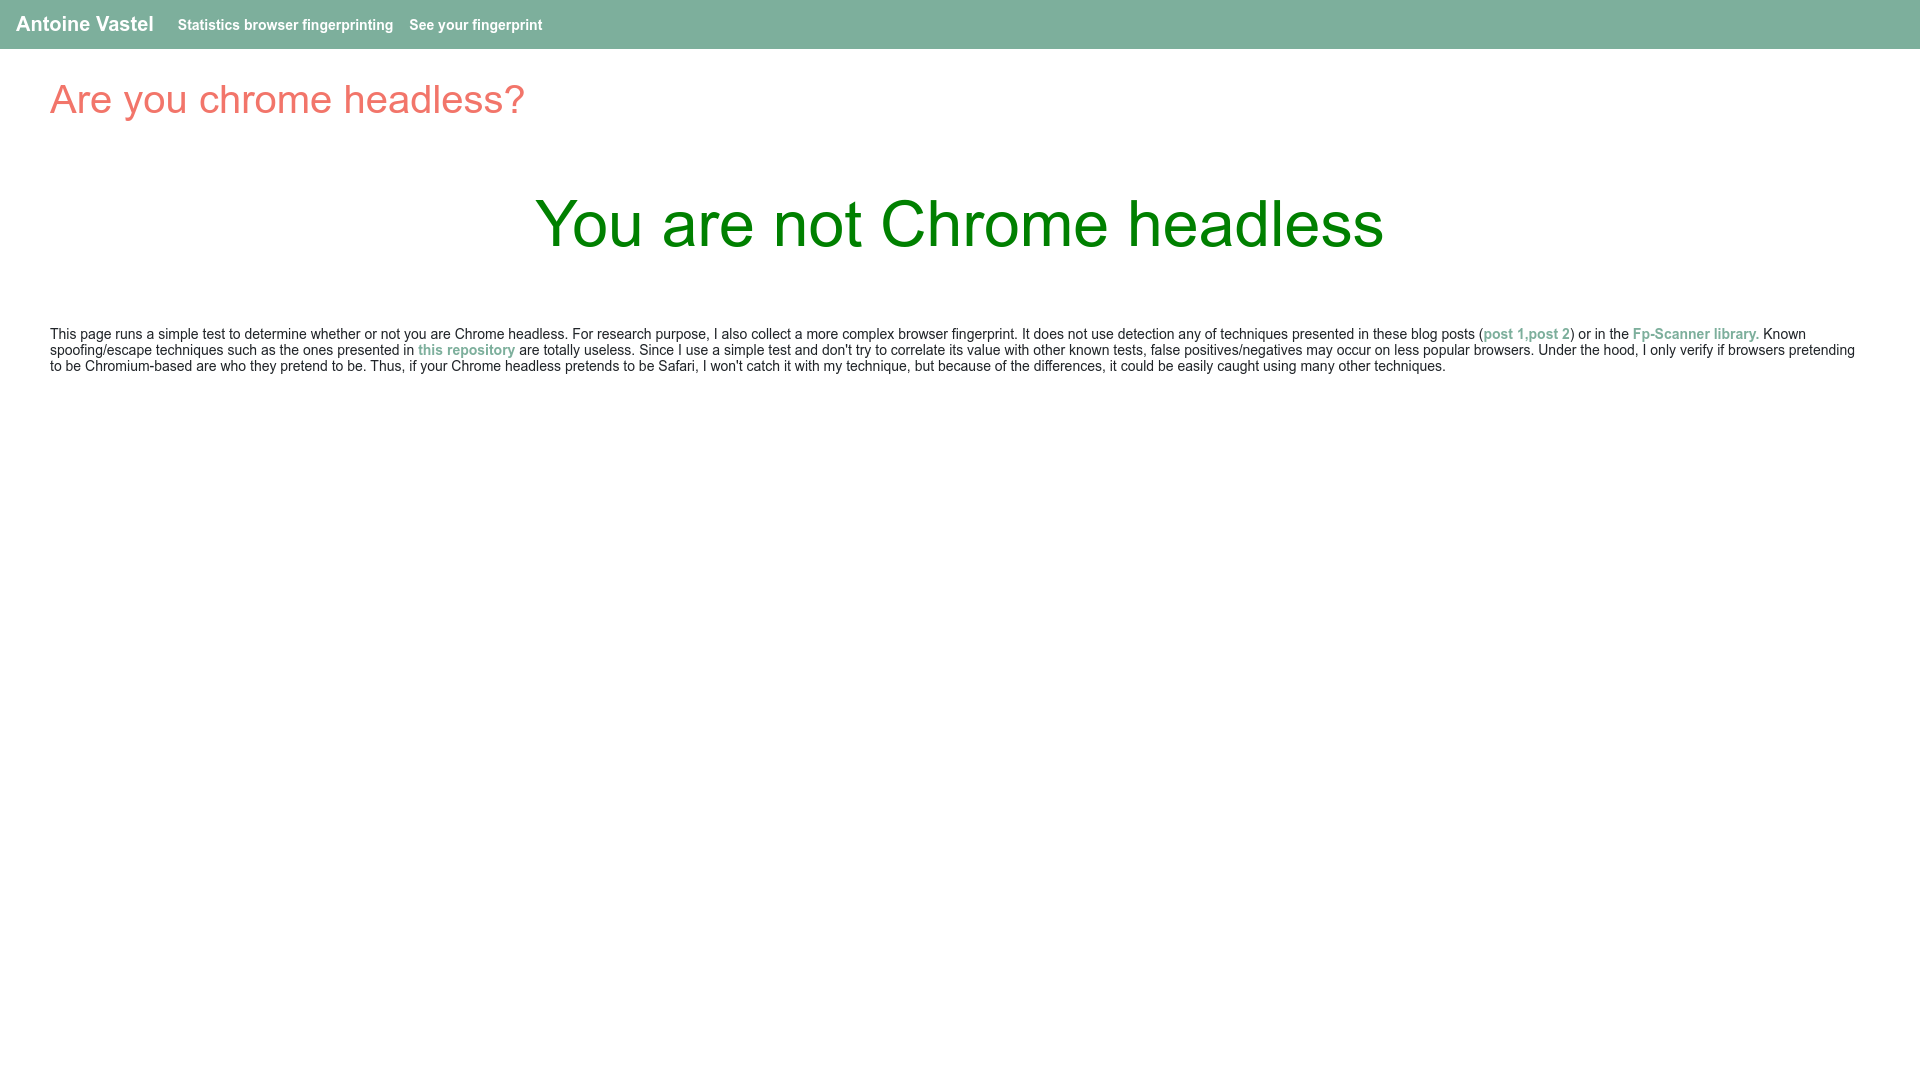
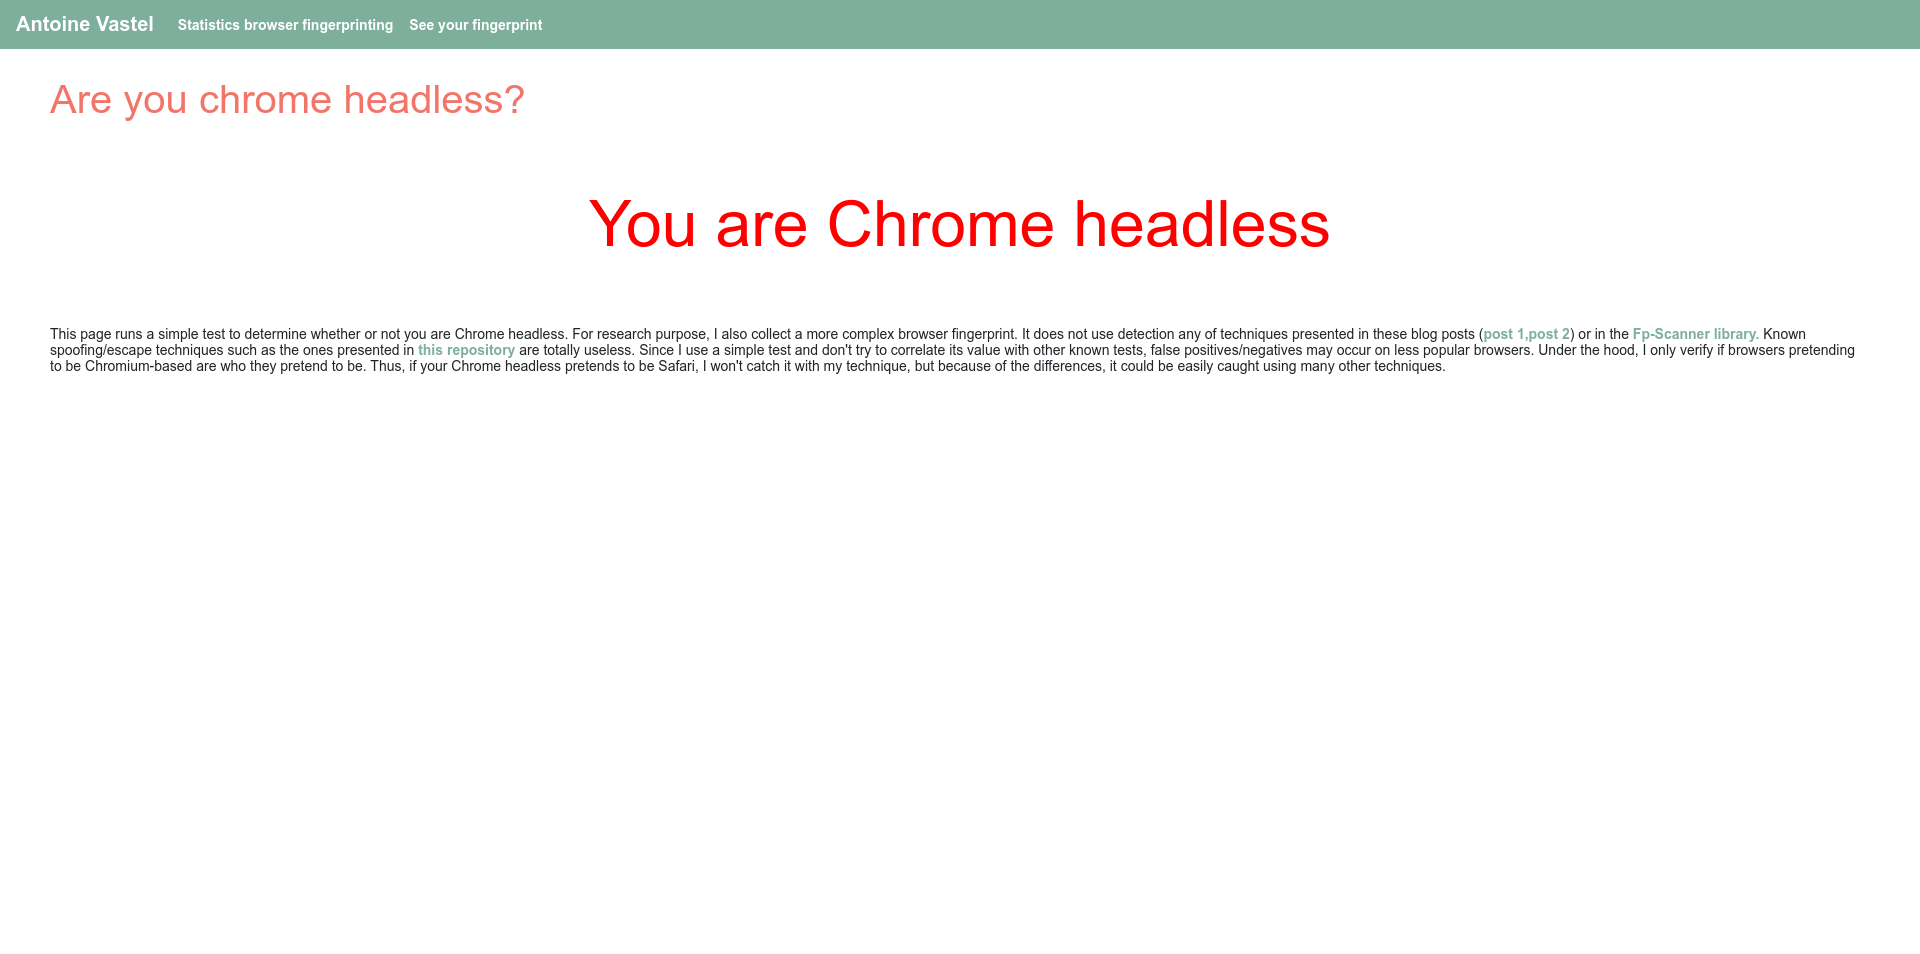
passing fingerprintjs2 hasLied tests

Changed region(s): [[0.0312, 0.304, 0.9688, 0.3952], [0.0, 0.0, 1.0, 0.1216], [0.2812, 0.1824, 0.7188, 0.2736]]

diff --git a/crawler/src/persistant_handler.ts b/crawler/src/persistant_handler.ts
@@ -11,6 +11,7 @@ import { HttpWorker} from './http_worker';
 import { startProxyServer } from './proxy_server';
 import {puppeteer_proxy_error_needles, http_codes_proxy_failure} from './handler';
 import {ResultPolicy, ExecutionEnv} from '@lib/types/common';
+import {LogLevel} from "@lib/misc/logger";
 const got = require('got');
 
 export enum State {
@@ -30,12 +31,12 @@ export class PersistantCrawlHandler {
   counter: number;
   crawler_cache: any;
 
-  constructor(config: HttpWorkerConfig | BrowserWorkerConfig) {
-    this.logger = getLogger(null, 'persistantHandler', config.loglevel);
+  constructor() {
+    this.logger = getLogger(null, 'persistantHandler', LogLevel.verbose);
     this.state = State.initial;
     this.http_worker = null;
     this.browser_worker = null;
-    let config_handler = new CrawlConfig(config);
+    let config_handler = new CrawlConfig({} as BrowserWorkerConfig);
     this.config = config_handler.getDefaultConfig();
     this.proxy_state = {
       proxy: null
@@ -48,19 +49,6 @@ export class PersistantCrawlHandler {
   public async setup() {
     if (this.state === State.initial) {
       this.proxy_server = startProxyServer(this.proxy_state);
-
-      this.config.worker_id = 1;
-      // @ts-ignore
-      this.config.result_policy = ResultPolicy.return;
-      // @ts-ignore
-      this.config.random_user_agent = false;
-      // @ts-ignore
-      this.config.apply_evasion = true;
-      // @ts-ignore
-      this.config.block_webrtc = true;
-      // @ts-ignore
-      this.config.pup_args = [`--proxy-server=http://localhost:8000`];
-
       this.http_worker = new HttpWorker(this.config);
       this.browser_worker = new BrowserWorker(this.config as BrowserWorkerConfig);
       await this.http_worker.setup();
@@ -70,14 +58,28 @@ export class PersistantCrawlHandler {
   }
 
   private updateConfig(body: any) {
+    // set default config options
+    this.config.worker_id = 1;
+    // @ts-ignore
+    this.config.result_policy = ResultPolicy.return;
+    // @ts-ignore
+    this.config.apply_evasion = true;
+    // @ts-ignore
+    this.config.block_webrtc = true;
+    // @ts-ignore
+    this.config.pup_args = [`--proxy-server=http://localhost:8000`];
+
     let update_keys: Array<string> = ['function_code', 'items',
      'loglevel', 'options', 'worker_metadata', 'cookies',
-      'default_accept_language', 'random_accept_language', 'block_webrtc',
+      'default_accept_language', 'random_accept_language',
        'headers', 'user_agent', 'default_navigation_timeout',
         'intercept_types', 'recaptcha_provider', 'timezone', 'language',
-         'test_evasion', 'test_webrtc_leak'];
+         'test_evasion', 'test_webrtc_leak', 'random_user_agent', 'user_agent_options',
+       'apply_evasion', 'block_webrtc'];
+
     for (let key of update_keys) {
-      if (body[key]) {
+      if (body[key] !== undefined) {
+        this.logger.info(`${key}=${body[key]}`);
         // @ts-ignore
         this.config[key] = body[key];
       }
@@ -111,6 +113,7 @@ export class PersistantCrawlHandler {
       google: 'new_google_scraper.js',
       bing: 'new_bing_scraper.js',
       raw: 'new_render_raw.js',
+      fp: 'new_fp.js',
     }
 
     if (!Object.keys(crawlers).includes(crawler_name)) {
@@ -144,6 +147,7 @@ export class PersistantCrawlHandler {
    * are not required during startup of the browser.
    */
   public async run(body: any) {
+    this.logger.info('Using body: ' + JSON.stringify(body, null, 1));
     await this.updateConfig(body);
     await this.setup();
     const result: any = [];
@@ -156,7 +160,7 @@ export class PersistantCrawlHandler {
     // @ts-ignore
     this.browser_worker.config = this.config;
     this.http_worker.config = this.config;
-    this.logger.debug('Using config: ' + JSON.stringify(this.config));
+    this.logger.info('Using config: ' + JSON.stringify(this.config, null, 1));
 
     let items = body.items || [];
     // reload the browser page and close the current one

diff --git a/crawler/src/browser_worker.ts b/crawler/src/browser_worker.ts
@@ -352,6 +352,7 @@ export class BrowserWorker extends BaseWorker {
 
     // pick a random desktop user agent
     if (this.config.random_user_agent) {
+      this.logger.verbose(`random_user_agent=true`);
       this.user_agent_obj = new this.UserAgent({deviceCategory: 'desktop'});
     }
 
@@ -451,7 +452,8 @@ export class BrowserWorker extends BaseWorker {
       // when we set a random user agent, the defaults are not correct anymore.
       // we need to update the platform accordingly
       if (this.user_agent_data) {
-        this.logger.verbose(`Using StealthPlugin with overriding platform: ${this.user_agent_data.platform}`);
+        // https://github.com/berstend/puppeteer-extra/blob/c44c8bb0224c6bba2554017bfb9d7a1d0119f92f/packages/puppeteer-extra-plugin-stealth/evasions/user-agent-override/readme.md
+        this.logger.info(`Using StealthPlugin with overriding platform: ${this.user_agent_data.platform}`);
         // Remove this specific stealth plugin from the default set
         stealth.enabledEvasions.delete("user-agent-override");
         puppeteer.use(stealth);
@@ -466,8 +468,11 @@ export class BrowserWorker extends BaseWorker {
         puppeteer.use(ua);
       } else {
         // Add stealth plugin and use defaults (all tricks to hide puppeteer usage)
-        this.logger.info('Using full StealthPlugin() with puppeteer');
-        puppeteer.use(StealthPlugin());
+        this.logger.info('Using StealthPlugin() without plugin user-agent-override() in puppeteer');
+        // Remove user-agent-override from the default set
+        // reason, we set the proper user-agent and platform ourselves
+        stealth.enabledEvasions.delete("user-agent-override");
+        puppeteer.use(stealth);
       }
     }
 
@@ -513,6 +518,9 @@ export class BrowserWorker extends BaseWorker {
     }
 
     let headless: boolean = true;
+    if (process.env.HEADLESS === 'false') {
+      headless = false;
+    }
 
     if (process.env.USING_XVFB === '1') {
       // when we are using XVFB frame buffer server, we start pptr with headless false
@@ -548,7 +556,7 @@ export class BrowserWorker extends BaseWorker {
       pptr_options.args.push(`--disable-extensions-except=./chrome_extensions/webrtc-blocker`);
       pptr_options.args.push(`--load-extension=./chrome_extensions/webrtc-blocker`);
 
-      this.logger.verbose(`Loading extension webrtc-blocker`);
+      this.logger.info(`Loading extension webrtc-blocker`);
     }
 
     if (process.env.PUPPETEER_EXECUTABLE_PATH) {

diff --git a/crawler/test/direct_test.js b/crawler/test/direct_test.js
@@ -45,7 +45,6 @@ async function callRemote(payload) {
 
 let payload = {
   items: ['https://ipinfo.io/json'],
-  function_code: getFunc('new_render.js'),
   API_KEY: process.env.API_KEY,
   crawler: 'render',
   loglevel: 'verbose',
@@ -53,17 +52,17 @@ let payload = {
 };
 
 let payload4 = {
-  items: ['file:///home/nikolai/projects/work/crawling_infrastructure/crawler/experiments/fingerprint/index.html'],
-  crawler: 'raw',
+  items: ['file:///home/nikolai/projects/work/crawling_infrastructure/crawler/test/fingerprint/index2.html'],
+  crawler: 'fp',
   API_KEY: process.env.API_KEY,
   loglevel: 'verbose',
-  test_evasion: false,
-  user_agent: 'silly'
+  block_webrtc: true,
+  apply_evasion: true,
+  test_evasion: true,
 };
 
 let payload2 = {
   items: ['What is my IP address?'],
-  function_code: getFunc('new_google_scraper.js'),
   API_KEY: process.env.API_KEY,
   crawler: 'google',
   loglevel: 'verbose',
@@ -72,7 +71,6 @@ let payload2 = {
 
 let payload3 = {
   items: ['no space no hope'],
-  function_code: getFunc('new_bing_scraper.js'),
   API_KEY: process.env.API_KEY,
   crawler: 'bing',
   //proxy: 'http://167.99.241.135:3128',

diff --git a/crawler/src/proxy_server.ts b/crawler/src/proxy_server.ts
@@ -19,8 +19,8 @@ export function startProxyServer(proxy_state: any) {
       let upstream_proxy = null;
       if (proxy_state.proxy) {
         upstream_proxy = proxy_state.proxy;
+        logger.info('Using upstream proxy: ' + upstream_proxy);
       }
-      logger.info('Using upstream proxy: ' + upstream_proxy);
       return {
         requestAuthentication: false,
         upstreamProxyUrl: upstream_proxy,
@@ -35,13 +35,13 @@ export function startProxyServer(proxy_state: any) {
   // Emitted when HTTP connection is closed
   server.on('connectionClosed', (params: any) => {
     var {connectionId, stats} = params;
-    logger.info(`Connection ${connectionId} closed`);
+    logger.verbose(`Connection ${connectionId} closed`);
   });
 
   // Emitted when HTTP request fails
   server.on('requestFailed', (params: any) => {
     var {request, error} = params;
-    logger.info(`Request ${request.url} failed`);
+    logger.error(`Request ${request.url} failed`);
     logger.error(error);
   });
 

diff --git a/crawler/test/fingerprint/index2.html b/crawler/test/fingerprint/index2.html
@@ -1,0 +1,30 @@
+<!doctype html>
+<html>
+<head>
+  <title>Fingerprintjs2 test</title>
+  <meta name="viewport" content="width=device-width, initial-scale=1">
+</head>
+<body>
+  <pre id="fp"></pre>
+  <script src="fingerprint2.js"></script>
+  <script>
+    var fingerprintReport = function () {
+      Fingerprint2.get(function(components) {
+        var murmur = Fingerprint2.x64hash128(components.map(function (pair) { return pair.value }).join(), 31)
+        components.unshift({key: 'fingerprint', value: murmur});
+        document.querySelector("#fp").textContent = JSON.stringify(components, null, 2);
+      })
+    }
+    var cancelId
+    var cancelFunction
+    // see usage note in the README
+    if (window.requestIdleCallback) {
+      cancelId = requestIdleCallback(fingerprintReport)
+      cancelFunction = cancelIdleCallback
+    } else {
+      cancelId = setTimeout(fingerprintReport, 500)
+      cancelFunction = clearTimeout
+    }
+  </script>
+</body>
+</html>

diff --git a/crawler/test/more_proxy_tests.ts b/crawler/test/more_proxy_tests.ts
@@ -152,16 +152,23 @@ describe('language changes on subsequent crawls', async () => {
   });
 });
 
-describe('fingerprintjs', async () => {
-  it('', async () => {
+describe('fingerprintjs2', async () => {
+  it('has lied properties are all set to false', async () => {
     let payload = {
-      items: ['file:///crawler/test/fingerprint/index.html'],
-      crawler: 'raw',
+      items: ['file:///crawler/test/fingerprint/index2.html'],
+      random_user_agent: true,
+      crawler: 'fp',
       API_KEY: process.env.API_KEY,
       loglevel: 'verbose',
     };
     let response = await endpoint(payload, 'blankSlate', 'POST');
-    console.log(response);
+    console.log(response)
+    let fp = response[0];
+    for (let el of fp) {
+      if (el.key.startsWith('hasLied')) {
+        expect(el.value).to.equal(false, 'key: ' + el.key + ' is true');
+      }
+    }
   });
 });
 

diff --git a/crawler/src/server/worker.service.ts b/crawler/src/server/worker.service.ts
@@ -159,7 +159,7 @@ export class WorkerService {
 
     if (this.state === State.initial) {
       if (this.persistantCrawlHandler === null) {
-        this.persistantCrawlHandler = new PersistantCrawlHandler(req.body);
+        this.persistantCrawlHandler = new PersistantCrawlHandler();
       }
       this.state = State.running;
       await this.persistantCrawlHandler.run(req.body).then((response: any) => {
